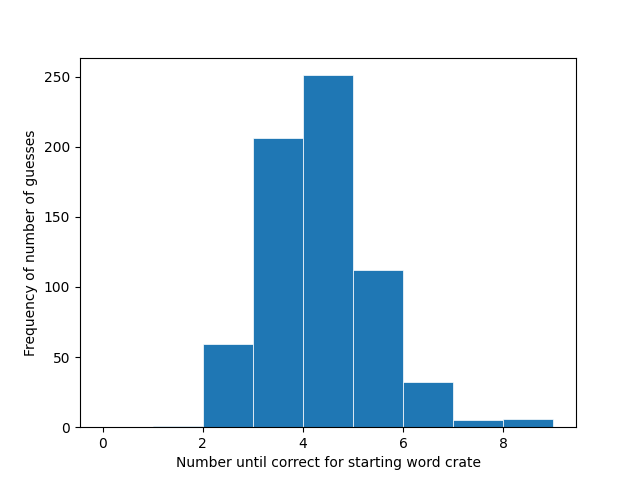
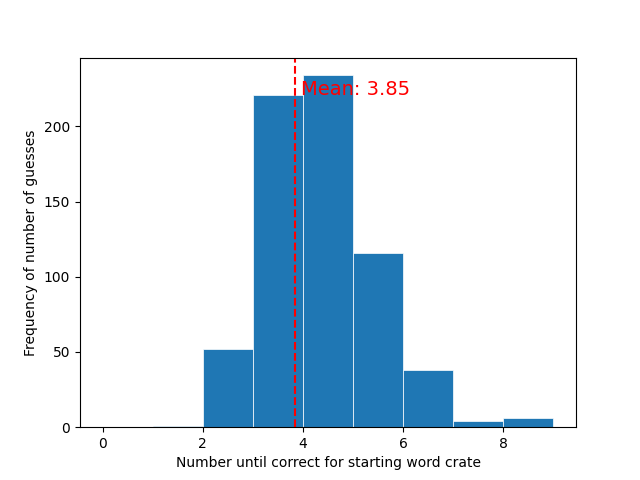
added more tests todo: fix entropy for pzazz, pizza

diff --git a/wordle_test.py b/wordle_test.py
@@ -21,13 +21,13 @@ def get_test_words():
     testWords.remove('snafu')
     testWords.remove('guano')
     
-    return testWords[:]
+    return testWords[:100]      # 674 total
 
 testwords = get_test_words()
 
 # run all testwords given start word seed
 # displays progress bar if verbose=true (default)
-def run_test(seed, verbose=True):
+def run_test(seed, verbose=True, heuristic='naive'):
     #testwords = get_test_words()
 
     if verbose: print('Testing wordle bot on ', len(testwords), ' previous wordle answers with starting guess: ', seed)
@@ -38,14 +38,14 @@ def run_test(seed, verbose=True):
         # Print the progress bar
         progress = i / (len(testwords) - 1)
         num_bars = int(progress * 40)
-        if verbose: print('\r[{}{}] {}'.format('#' * num_bars, '-' * (40 - num_bars), i+1), end='')
+        if verbose: print('\r[{}{}] {}/{}'.format('#' * num_bars, '-' * (40 - num_bars), i+1, len(testwords)), end='')
 
         game = Wordle(words_list, correct_word=ans)
         # going to use start word "raise" as recommended here: https://www.tomsguide.com/news/best-wordle-start-words
         # note: startword is standardized to control testing
-        guess_log.append(game.play_game(startword=seed, verbose=False))
+        guess_log.append(game.play_game(startword=seed, verbose=False, heuristic=heuristic))
 
-    plot_guess_log(seed, guess_log)
+    plot_guess_log(seed + '_' + heuristic, guess_log)
 
     avg_guesses = sum(guess_log)/ len(guess_log)
 
@@ -58,6 +58,13 @@ def plot_guess_log(seed, guess_log):
     ax.set_xlabel('Number until correct for starting word ' + seed)
     ax.set_ylabel('Frequency of number of guesses')
     ax.hist(guess_log, bins=range(10), linewidth=0.5, edgecolor="white")
+
+    mean_guesses = sum(guess_log)/len(guess_log)
+    plt.axvline(x=mean_guesses, color='r', linestyle='--')
+
+    plt.text(mean_guesses+0.1, 0.9*ax.get_ylim()[1], 'Mean: {:.2f}'.format(mean_guesses), color='r', fontsize=14)
+
+
     plt.savefig('histograms/'+ seed + '.png')
 
 def plot_start_words(start_words, avg_guesses):
@@ -74,12 +81,16 @@ def plot_start_words(start_words, avg_guesses):
     plt.show()
 
 if __name__ == '__main__':
-
-    popular_start_words = ['pzazz', 'risky', 'crate', 'fuzzy', 'raise']
+    # Entropy is breaking on first iter of second word
+    popular_start_words = ['raise', 'crate']
     avg_guesses = []
     for seed in popular_start_words:
         print('testing: \t', seed)
-        avg = run_test(seed, verbose=False)
+        # try for each heuristic
+        ### NOTE: second try of entropy does not work for some reason
+        for h in ['naive', 'frequency', 'entropy']:
+            avg = run_test(seed, verbose=True, heuristic=h)
+            print('\navg guesses for ', h, ': \t', avg)
         print('avg guesses: \t', avg)
         avg_guesses.append(avg)
     

diff --git a/wordle_frequency.py b/wordle_frequency.py
@@ -41,6 +41,8 @@ def get_frequency_data(words_list):
 def load_frequency_data():
     freq_data = pd.read_csv('data/filtered_freq_data.csv')
     freq_dict = dict(zip(freq_data['word'], freq_data['count']))
+    # idk why this word isn't in the ds, adding to prevent error
+    freq_dict['wooer'] = 10000
     return freq_dict
 
 # takes in list of possible words, returns word of max frequency
